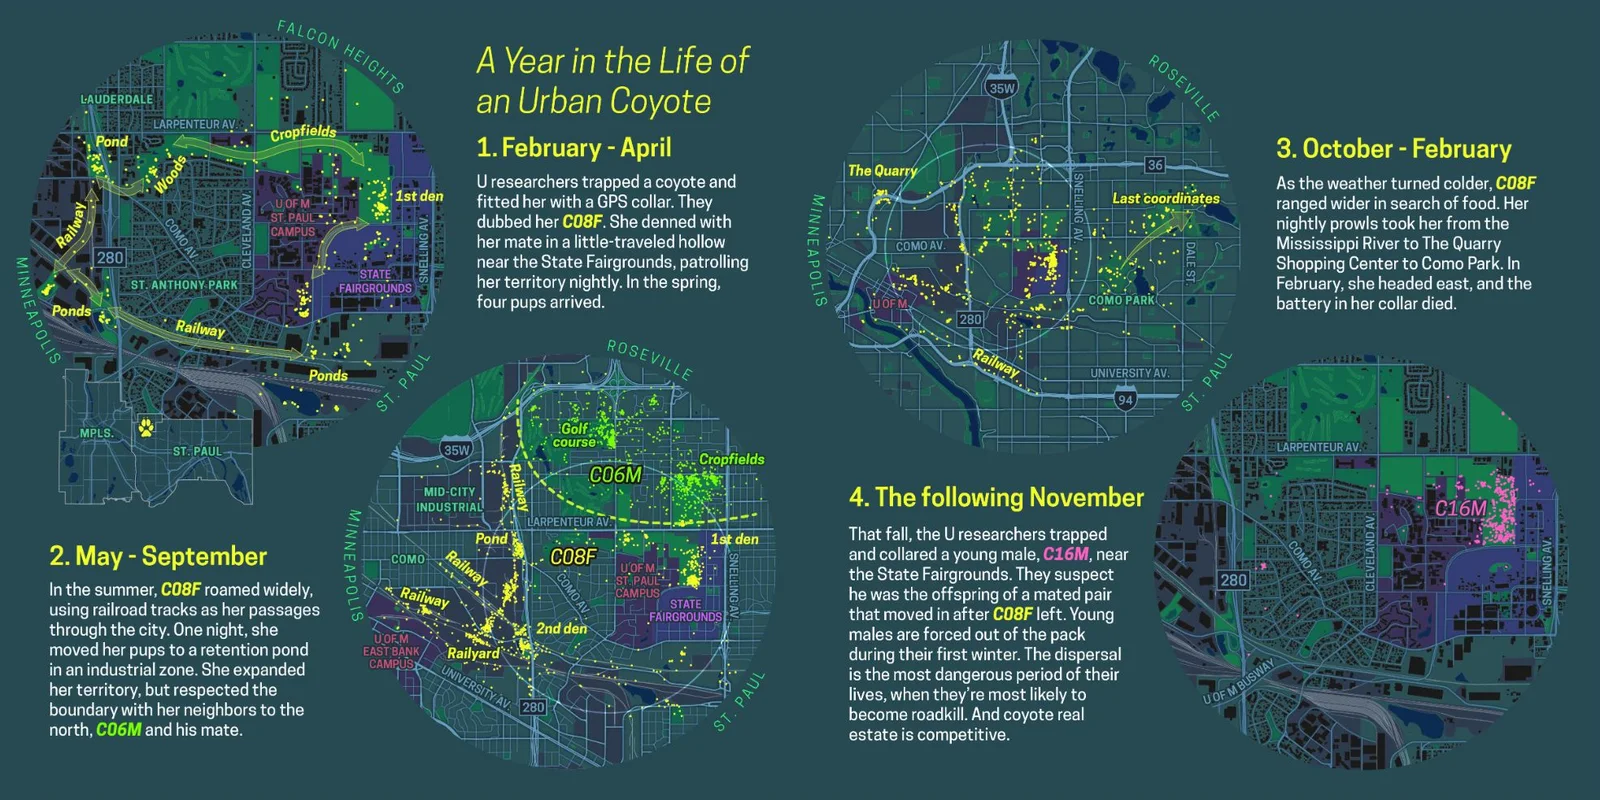
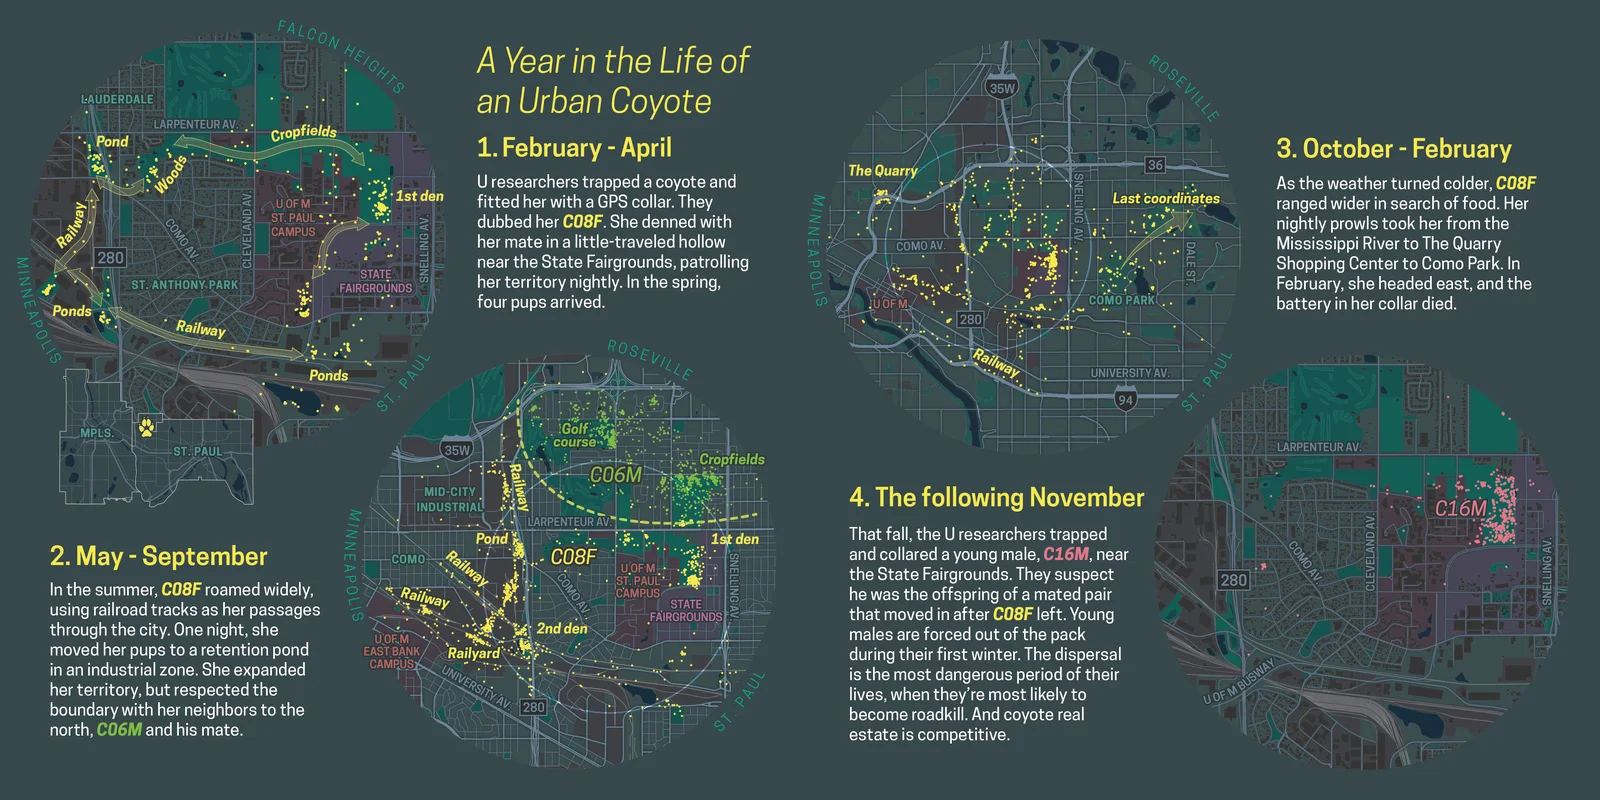
Rebuild the urban coyote page from its CMYK original; make the panel 2-column
The preview and the full-size page are now converted from the CMYK print
file to screen colors; the full size is the whole page at 4875x2475.

diff --git a/js/projects.js b/js/projects.js
@@ -333,7 +333,7 @@ const PROJECTS = [
     title:       "Urban foxes and coyotes",
     slug:        "fox-coyote",
     year:        "2026",
-    panelCols:   1,
+    panelCols:   2,
     tile:        "img/tiles/fox-coyote-zoom.webp",
     video:       "img/tiles/fox-coyote-zoom.mp4",
     link:        "",                              // no button: the story and the book are listed
@@ -342,8 +342,9 @@ const PROJECTS = [
     inBook:      true,
     description: "Stories about backyard foxes and coyotes eking out a life in the margins of the metro.",
     images:      [
-      // "A Year in the Life of an Urban Coyote" (the print page), white margin
-      // trimmed; clicking opens the full image
+      // "A Year in the Life of an Urban Coyote", converted from the CMYK print
+      // original (50 Maps/Maps/Coyotes/coyote.jpg) to screen colors, white
+      // margin trimmed; clicking opens the whole page at full resolution
       { src: "img/tiles/urban-coyote.webp", full: "img/urban-coyote.jpg" }
     ],
     links:       [                                 // "In the book" is added after these
